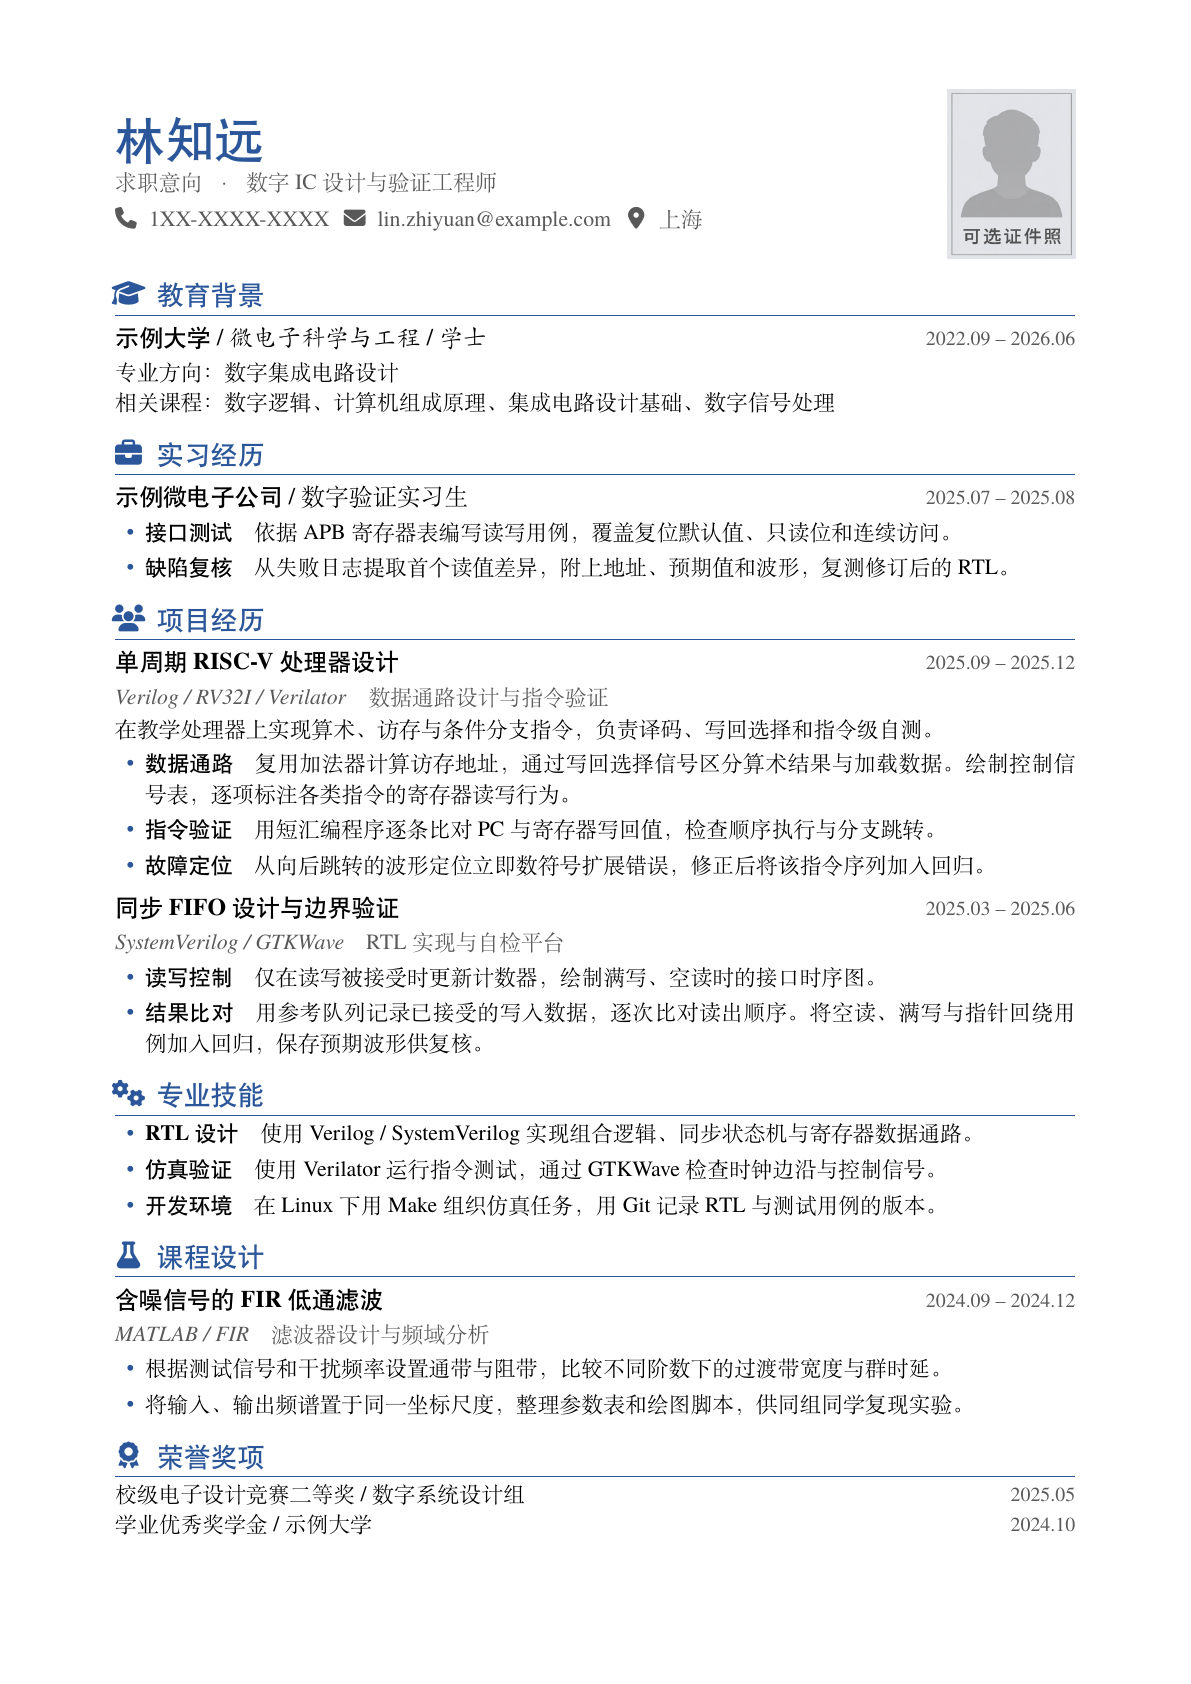
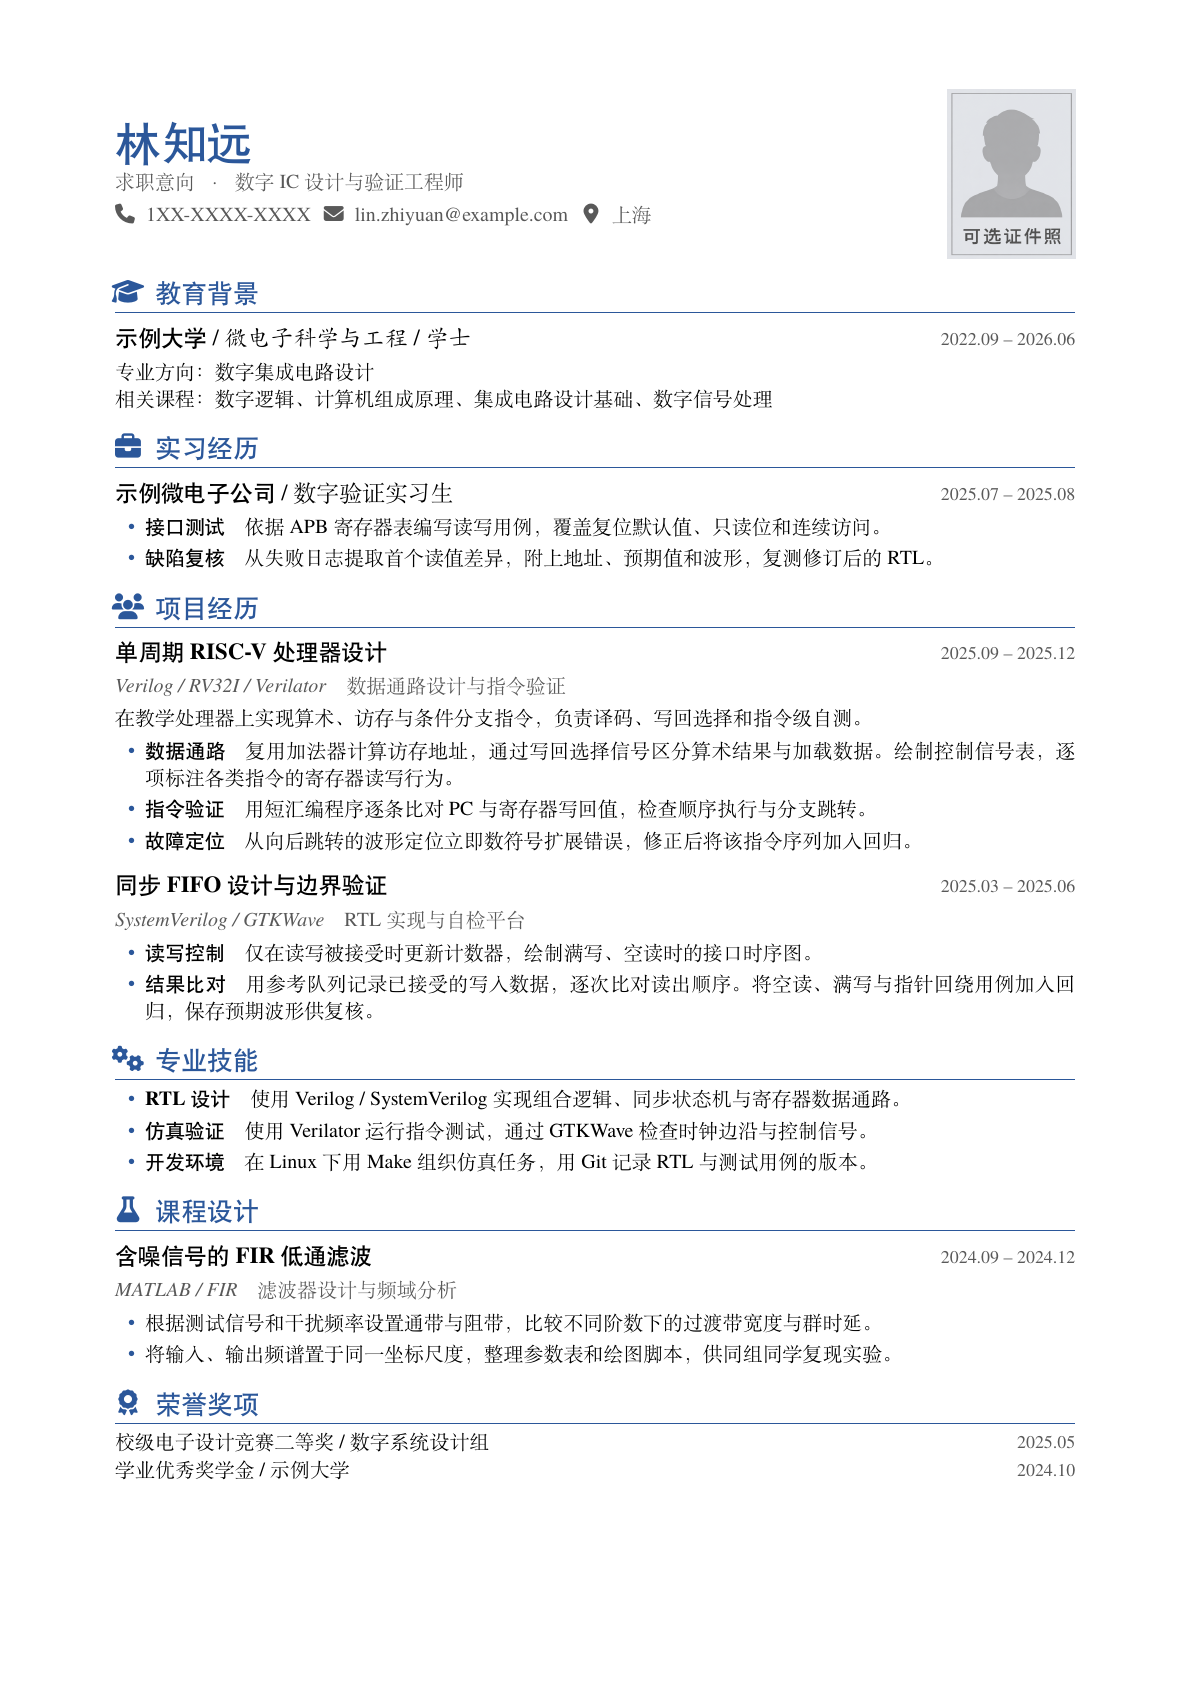
缩小简历字号，平衡板块、条目与正文的间距

diff --git a/texs/header_with_photo.tex b/texs/header_with_photo.tex
@@ -11,7 +11,7 @@
   \fi}
 \newcommand{\resumeidentity}{%
   \raggedright
-  {\Huge\bfseries\color{fgcolor}\resumename\par}%
+  {\fontsize{23pt}{26pt}\selectfont\bfseries\color{fgcolor}\resumename\par}%
   \ifx\resumetarget\empty\else
     \vspace{2pt}{\color{secondary}求职意向\enspace ·\enspace \resumetarget\par}%
   \fi

diff --git a/README.md b/README.md
@@ -112,7 +112,7 @@ latex-resume-template/
 
 - **配色**：在 `resume-zh_CN.tex` 修改 `\definecolor{fgcolor}{HTML}{2B579A}` 调整姓名、模块标题、分隔细线与列表圆点颜色；修改 `secondary` 调整联系方式、日期与技术关键词的深灰色。
 - **页边距**：在 `resume-zh_CN.tex` 修改 `\geometry{a4paper,...}`。
-- **字号与间距**：正文为 11pt，段内行距倍率为 1.12。`resume.cls` 中的 `\titlespacing*` 控制板块标题前后留白（9pt / 4pt）及条目标题前后留白（6pt / 2pt）。`itemize` 上下各留 2pt，分工说明下留 1pt；修改这些值即可单独调整不同类型内容之间的距离。
+- **字号与间距**可在 `resume.cls` 调整。正文为 10pt，段内基线距约 14pt。板块标题为 13pt，条目标题为 11.5pt，两级标题的前后留白分别为 8pt / 5pt 和 7pt / 3pt。普通列表和技能列表共用相同的间距，列表上下各留 3pt，相邻要点之间加 2pt。
 - **自定义网站文案**：默认页眉调用 `\website{\resumewebsite}` 直接显示网址；如需自定义显示文本，也可手动调用 `\website[个人博客]{https://example.com}`。
 
 ## 常见问题
